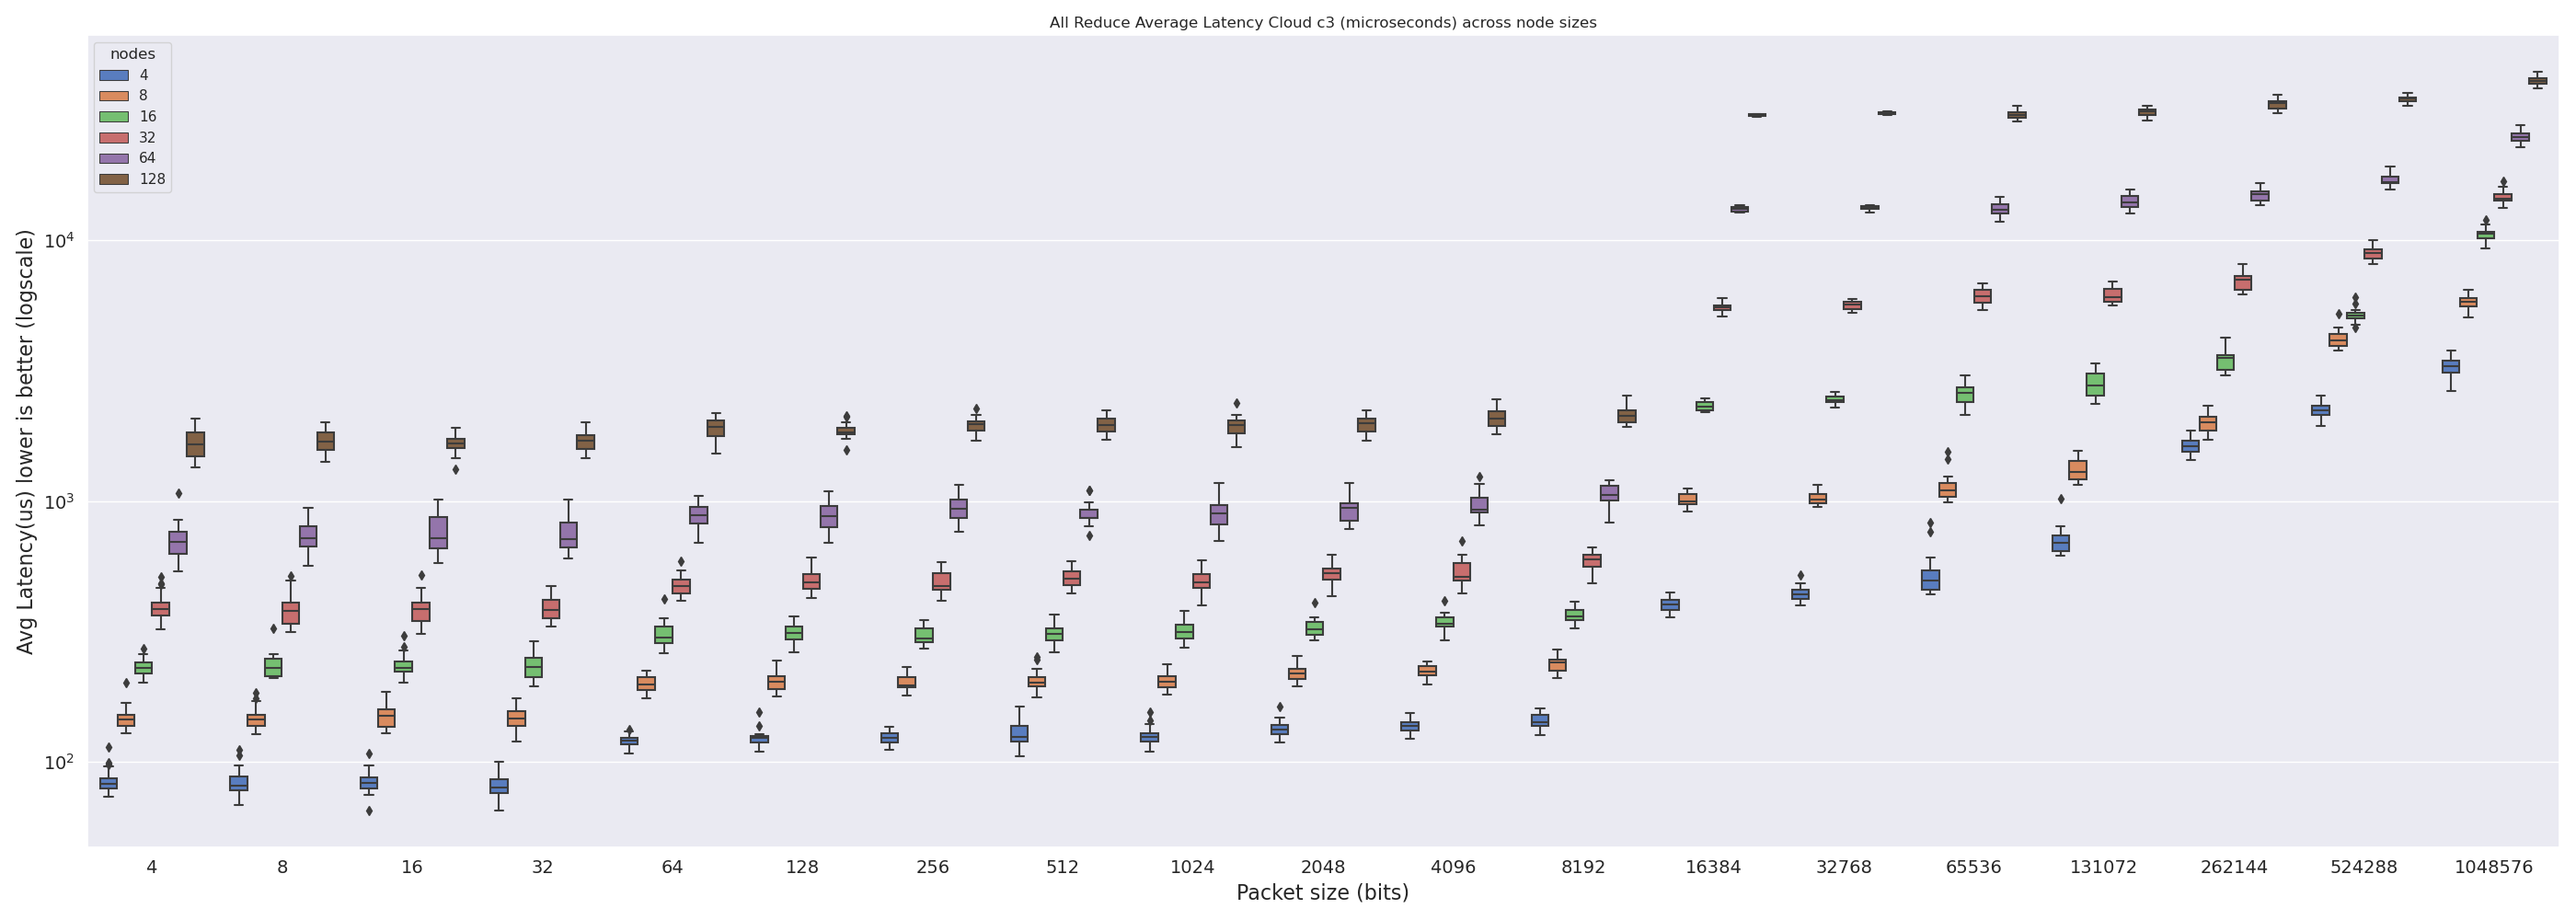
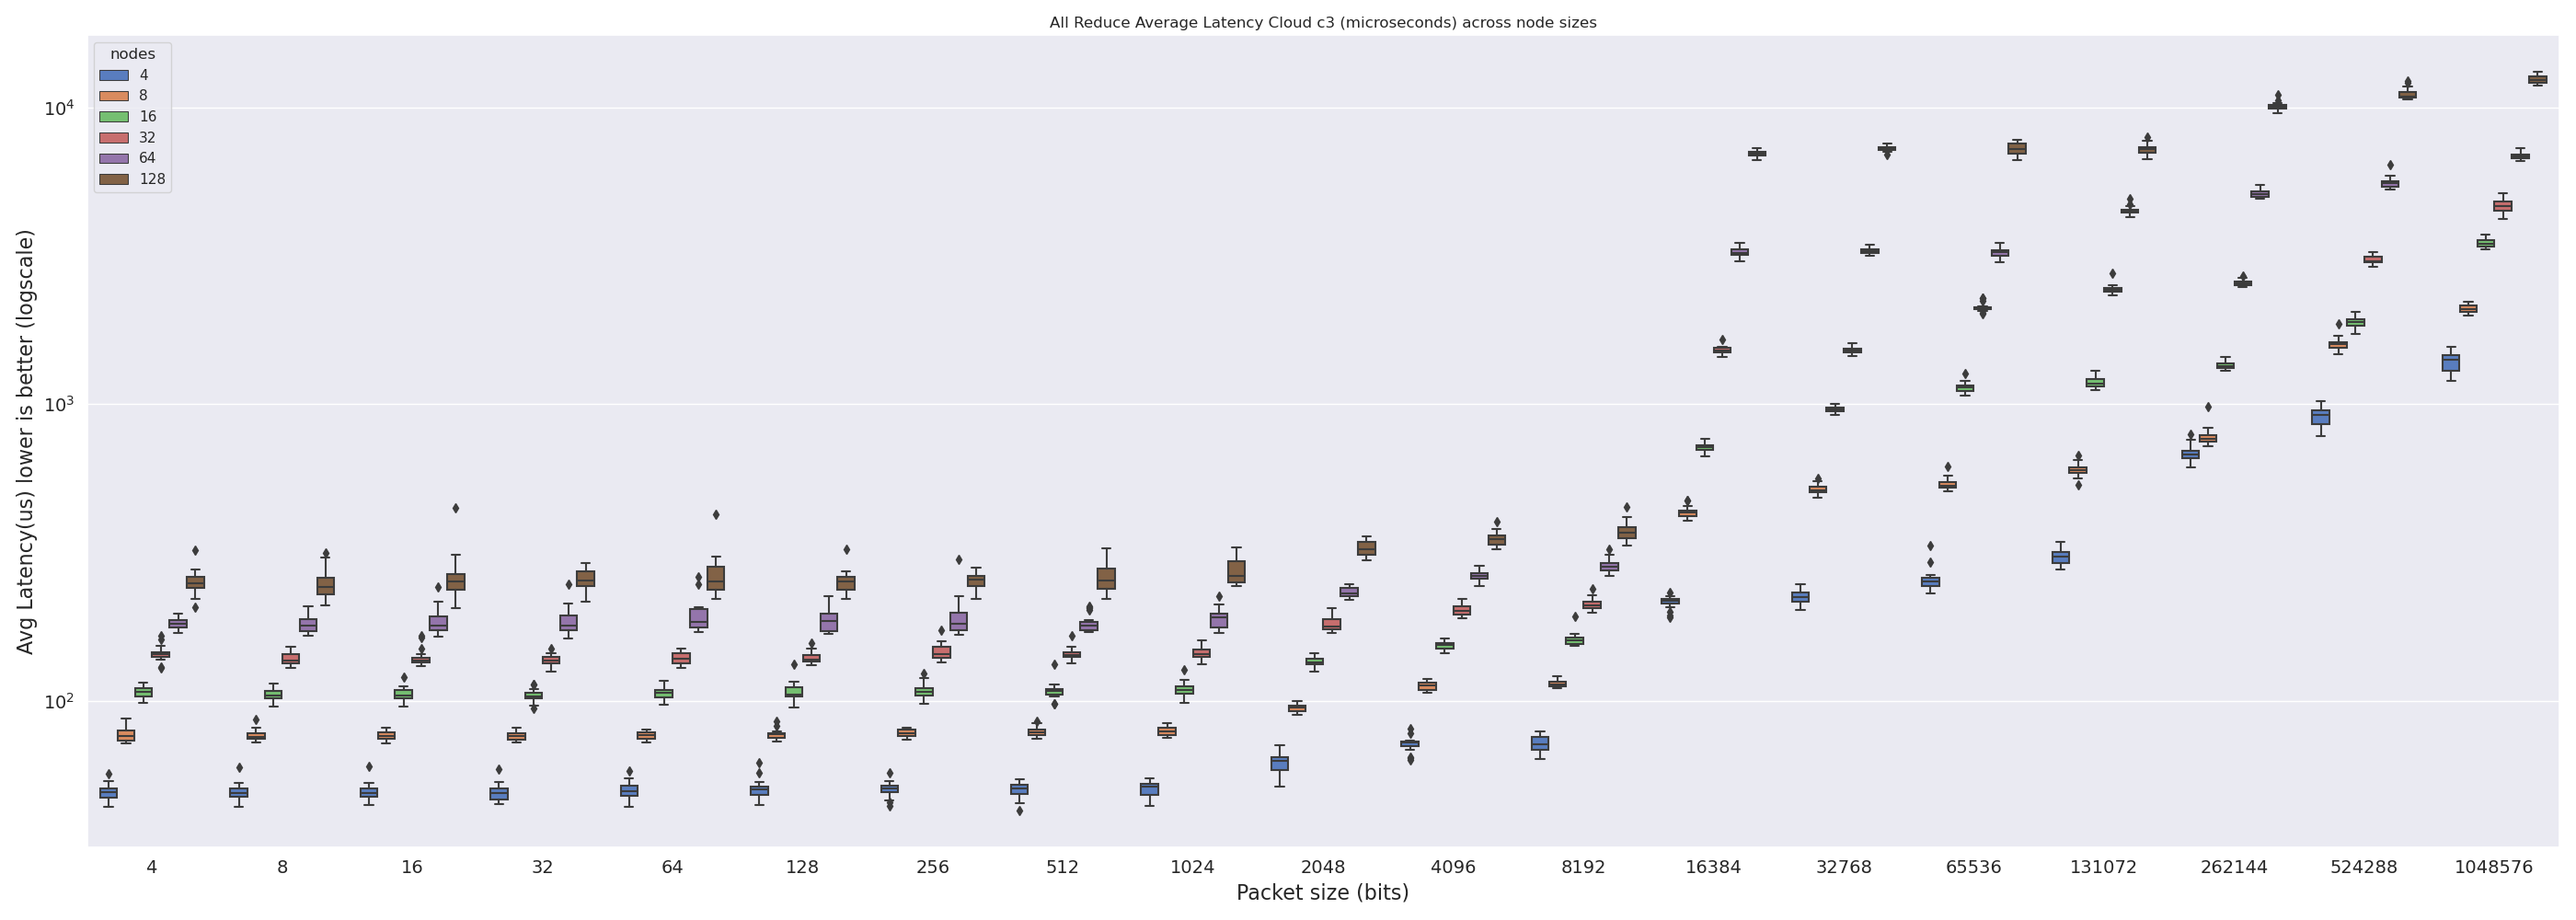
update plots

diff --git a/google/kubecon/osu-benchmarks/compare/plot-osu-benchmarks.py b/google/kubecon/osu-benchmarks/compare/plot-osu-benchmarks.py
@@ -80,7 +80,7 @@ def main():
         title="All Reduce Average Latency Cloud c2d (microseconds) across node sizes",
     )
     plot_pairs(
-        df_reduce_gcp,
+        df_reduce_gcp_c3,
         hue="nodes",
         x="Size",
         y="Avg Latency(us)",
